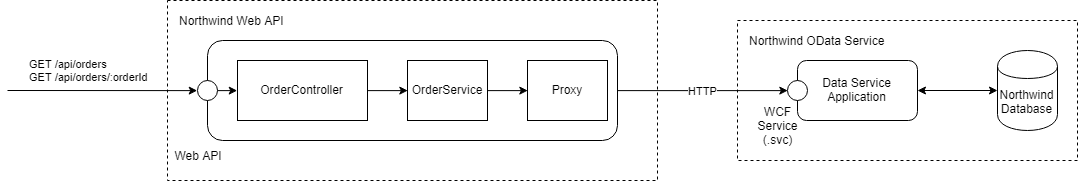
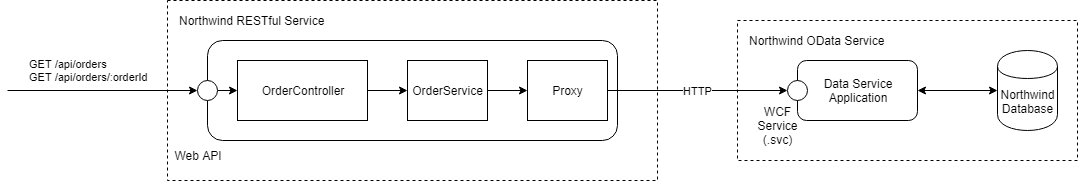
1

diff --git a/task-02-northwind-rest-service.md b/task-02-northwind-rest-service.md
@@ -1,6 +1,6 @@
 # Northwind Data Services
 
-## Задача 2 - Northwind REST Service
+## Задача 2 - Northwind RESTful Service
 
 Цели:
 * Научиться создавать веб-приложения, используя ASP.NET Core.
